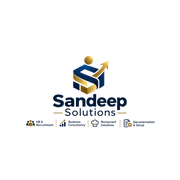
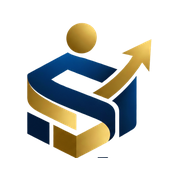
Add files via upload

Changed region(s): [[0.1389, 0.1111, 0.8611, 0.8889], [0.5278, 0.8611, 0.6111, 0.8889]]

diff --git a/services.html b/services.html
@@ -5,6 +5,10 @@
 <meta charset="utf-8">
 <meta name="viewport" content="width=device-width,initial-scale=1">
 <link rel="icon" href="favicon.ico" type="image/x-icon">
+<link rel="icon" type="image/png" sizes="32x32" href="favicon-32.png">
+<link rel="icon" type="image/png" sizes="16x16" href="favicon-16.png">
+<link rel="icon" type="image/png" sizes="192x192" href="favicon-192.png">
+<link rel="manifest" href="site.webmanifest">
 <meta name="theme-color" content="#071b34">
 <meta name="robots" content="index,follow">
 <meta name="author" content="Sandeep Solutions">
@@ -17,9 +21,9 @@
 <meta name="twitter:card" content="summary_large_image">
 <meta name="twitter:title" content="Services | Sandeep Solutions">
 <meta name="twitter:description" content="Recruitment, payroll, statutory compliance, HR consulting, HRMS, analytics, training and employee lifecycle support.">
-<meta name="twitter:image" content="https://sandeephrsolutions.github.io/Logo.png">
+<meta name="twitter:image" content="https://sandeephrsolutions.github.io/header-logo.png">
 <meta property="og:type" content="website">
-<meta property="og:image" content="https://sandeephrsolutions.github.io/Logo.png">
+<meta property="og:image" content="https://sandeephrsolutions.github.io/header-logo.png">
 <title>Services | Sandeep Solutions</title>
 <style>
 :root{--navy:#071b34;--blue:#123f70;--gold:#f4b83f;--gold2:#d89b1d;--ink:#172033;--muted:#687487;--line:#e4e9f0;--bg:#f4f7fb;--soft:#eef4fa;--green:#167642}
@@ -36,7 +40,7 @@ section{padding:68px 0}.white{background:#fff}.page-path{font-size:11px;color:#7
 @media(max-width:1050px){.mobile-menu{display:inline-flex;align-items:center;justify-content:center}.nav{min-height:68px}nav{display:none}nav.open{display:flex;position:absolute;left:16px;right:16px;top:72px;background:#071b34;border:1px solid #ffffff1f;border-radius:14px;padding:8px;flex-direction:column;gap:2px;box-shadow:0 16px 36px #0005}nav.open a{display:block;padding:13px 12px;border-radius:9px}nav.open a:hover{background:#ffffff0c;color:var(--gold)}.hero{padding:58px 0}.hero-grid{grid-template-columns:1fr}.service-grid{grid-template-columns:1fr}.items{grid-template-columns:1fr 1fr}.core{grid-template-columns:1fr}.split{grid-template-columns:1fr}.trust-grid{grid-template-columns:1fr 1fr}}
 @media(max-width:600px){.service-jump{padding:8px 0}.jump-inner{justify-content:flex-start;flex-wrap:nowrap;overflow-x:auto;scrollbar-width:none;padding-bottom:2px}.jump-inner::-webkit-scrollbar{display:none}.jump-inner a{font-size:11px;padding:8px 11px;flex:0 0 auto}.container{padding:0 16px}.brand img{width:46px;height:46px;border-radius:10px}.brand strong{font-size:14px}.brand small{font-size:8px}.hero h1{font-size:37px}.hero p{font-size:16px}.trust-strip{margin-top:0;padding-top:14px}.trust-grid{grid-template-columns:1fr 1fr}.service-card{padding:21px}.items{grid-template-columns:1fr}.service-head h3{font-size:18px}section{padding:54px 0}.heading h2{font-size:30px}.lifecycle{padding:20px}.cta{padding:27px}.cta h3{font-size:24px}.wa{right:12px;bottom:12px;padding:12px 15px;font-size:13px}}
 </style>
-<script type="application/ld+json">{"@context":"https://schema.org","@type":"Organization","name":"Sandeep Solutions","url":"https://sandeephrsolutions.github.io/","logo":"https://sandeephrsolutions.github.io/Logo.png","email":"sandeep.hr.solutions.shr@gmail.com","telephone":"+91-7978259944","sameAs":["https://www.linkedin.com/company/sandeep-hr-solutions/","https://www.instagram.com/sandeep_solutions/","https://www.facebook.com/share/18W9KU7tyC/"]}</script>
+<script type="application/ld+json">{"@context":"https://schema.org","@type":"Organization","name":"Sandeep Solutions","url":"https://sandeephrsolutions.github.io/","logo":"https://sandeephrsolutions.github.io/header-logo.png","email":"sandeep.hr.solutions.shr@gmail.com","telephone":"+91-7978259944","sameAs":["https://www.linkedin.com/company/sandeep-hr-solutions/","https://www.instagram.com/sandeep_solutions/","https://www.facebook.com/share/18W9KU7tyC/"]}</script>
 <script type="application/ld+json">
 {"@context":"https://schema.org","@type":"FAQPage","mainEntity":[
 {"@type":"Question","name":"What services does Sandeep Solutions provide?","acceptedAnswer":{"@type":"Answer","text":"Sandeep Solutions provides HR & Recruitment, Business Consultancy, Restaurant Solutions, and Documentation & Setup services for startups, SMEs and growing businesses."}},
@@ -138,10 +142,7 @@ section{padding:68px 0}.white{background:#fff}.page-path{font-size:11px;color:#7
 <body>
 <header class="site-header">
 <div class="site-container site-nav-wrap">
-<a class="site-brand" href="index.html">
-<img src="brand-mark.png" alt="Sandeep Solutions logo">
-<span><strong>Sandeep Solutions</strong><small>HR &amp; Recruitment • Business Consultancy • Restaurant Solutions • Documentation &amp; Setup</small></span>
-</a>
+<a class="site-brand" href="index.html"><img class="header-logo" src="header-logo.png" alt="Sandeep Solutions"></a>
 <button class="site-mobile-menu" type="button" aria-label="Open navigation menu" aria-controls="siteNav" aria-expanded="false" onclick="toggleMenu()">☰</button>
 <nav id="siteNav" class="site-nav" aria-label="Primary navigation"><a href="index.html">Home</a><a href="about.html">About</a><a href="services.html" class="active" aria-current="page">Services</a><a href="employers.html">Employers</a><a href="jobs.html">Jobs</a><a href="contact.html">Contact</a><a href="admin-login.html">Admin</a></nav>
 </div>

diff --git a/jobs.html b/jobs.html
@@ -4,6 +4,10 @@
 <meta name="google-site-verification" content="6LKeyfC-vAnwwh8r8OQLfQKaJtBmHp_E1QEY5BGM-qA">
 <meta charset="utf-8"><meta name="viewport" content="width=device-width,initial-scale=1">
 <link rel="icon" href="favicon.ico" type="image/x-icon">
+<link rel="icon" type="image/png" sizes="32x32" href="favicon-32.png">
+<link rel="icon" type="image/png" sizes="16x16" href="favicon-16.png">
+<link rel="icon" type="image/png" sizes="192x192" href="favicon-192.png">
+<link rel="manifest" href="site.webmanifest">
 <meta name="theme-color" content="#071b34">
 <meta name="robots" content="index,follow">
 <meta name="author" content="Sandeep Solutions">
@@ -11,11 +15,11 @@
 <meta property="og:title" content="Jobs & Candidate Registration | Sandeep Solutions">
 <meta property="og:description" content="Register your candidate profile with Sandeep Solutions for suitable opportunities across India.">
 <meta property="og:url" content="https://sandeephrsolutions.github.io/jobs.html">
-<meta property="og:image" content="https://sandeephrsolutions.github.io/Logo.png">
+<meta property="og:image" content="https://sandeephrsolutions.github.io/header-logo.png">
 <meta name="twitter:card" content="summary_large_image">
 <meta name="twitter:title" content="Jobs & Candidate Registration | Sandeep Solutions">
 <meta name="twitter:description" content="Register your candidate profile with Sandeep Solutions for suitable opportunities across India.">
-<meta name="twitter:image" content="https://sandeephrsolutions.github.io/Logo.png">
+<meta name="twitter:image" content="https://sandeephrsolutions.github.io/header-logo.png">
 <link rel="canonical" href="https://sandeephrsolutions.github.io/jobs.html">
 <meta name="description" content="Sandeep Solutions provides Pan-India HR & recruitment, business consultancy, restaurant solutions, and documentation & setup support for startups, SMEs and growing businesses.">
 <title>Jobs & Candidate Registration | Sandeep Solutions</title><style>
@@ -135,7 +139,7 @@ nav a{transition:.18s}
   .portal-card .btn{width:100%}
 }
 </style><script type="application/ld+json">
-{"@context":"https://schema.org","@type":"Organization","name":"Sandeep Solutions","url":"https://sandeephrsolutions.github.io/","logo":"https://sandeephrsolutions.github.io/Logo.png","email":"sandeep.hr.solutions.shr@gmail.com","telephone":"+91-7978259944","sameAs":["https://www.linkedin.com/company/sandeep-hr-solutions/","https://www.instagram.com/sandeep_solutions/","https://www.facebook.com/share/18W9KU7tyC/"]}</script><style>
+{"@context":"https://schema.org","@type":"Organization","name":"Sandeep Solutions","url":"https://sandeephrsolutions.github.io/","logo":"https://sandeephrsolutions.github.io/header-logo.png","email":"sandeep.hr.solutions.shr@gmail.com","telephone":"+91-7978259944","sameAs":["https://www.linkedin.com/company/sandeep-hr-solutions/","https://www.instagram.com/sandeep_solutions/","https://www.facebook.com/share/18W9KU7tyC/"]}</script><style>
 
 /* Standard site-wide shell */
 .site-header{position:sticky!important;top:0!important;z-index:1000!important;background:#071b34f5!important;backdrop-filter:blur(12px)!important;color:#fff!important;border-bottom:1px solid #ffffff18!important}
@@ -217,10 +221,7 @@ nav a{transition:.18s}
 <a class="skip-link" href="#main-content">Skip to main content</a>
 <header class="site-header">
 <div class="site-container site-nav-wrap">
-<a class="site-brand" href="index.html">
-<img src="brand-mark.png" alt="Sandeep Solutions logo">
-<span><strong>Sandeep Solutions</strong><small>HR &amp; Recruitment • Business Consultancy • Restaurant Solutions • Documentation &amp; Setup</small></span>
-</a>
+<a class="site-brand" href="index.html"><img class="header-logo" src="header-logo.png" alt="Sandeep Solutions"></a>
 <button class="site-mobile-menu" type="button" aria-label="Open navigation menu" aria-controls="siteNav" aria-expanded="false" onclick="toggleMenu()">☰</button>
 <nav id="siteNav" class="site-nav" aria-label="Primary navigation"><a href="index.html">Home</a><a href="about.html">About</a><a href="services.html">Services</a><a href="employers.html">Employers</a><a href="jobs.html" class="active" aria-current="page">Jobs</a><a href="contact.html">Contact</a><a href="admin-login.html">Admin</a></nav>
 </div>

diff --git a/index.html b/index.html
@@ -5,6 +5,10 @@
 <meta charset="utf-8">
 <meta name="viewport" content="width=device-width,initial-scale=1">
 <link rel="icon" href="favicon.ico" type="image/x-icon">
+<link rel="icon" type="image/png" sizes="32x32" href="favicon-32.png">
+<link rel="icon" type="image/png" sizes="16x16" href="favicon-16.png">
+<link rel="icon" type="image/png" sizes="192x192" href="favicon-192.png">
+<link rel="manifest" href="site.webmanifest">
 <link rel="canonical" href="https://sandeephrsolutions.github.io/">
 <meta name="description" content="Sandeep Solutions provides Pan-India HR &amp; recruitment, business consultancy, restaurant solutions, and documentation &amp; setup support for startups, SMEs and growing businesses.">
 <meta name="theme-color" content="#071b34">
@@ -15,11 +19,11 @@
 <meta property="og:title" content="Sandeep Solutions | HR & Recruitment • Business Consultancy">
 <meta property="og:description" content="HR & Recruitment, Business Consultancy, Restaurant Solutions, and Documentation & Setup for growing businesses across India.">
 <meta property="og:url" content="https://sandeephrsolutions.github.io/">
-<meta property="og:image" content="https://sandeephrsolutions.github.io/Logo.png">
+<meta property="og:image" content="https://sandeephrsolutions.github.io/header-logo.png">
 <meta name="twitter:card" content="summary_large_image">
 <meta name="twitter:title" content="Sandeep Solutions">
 <meta name="twitter:description" content="HR & Recruitment • Business Consultancy • Restaurant Solutions • Documentation & Setup">
-<meta name="twitter:image" content="https://sandeephrsolutions.github.io/Logo.png">
+<meta name="twitter:image" content="https://sandeephrsolutions.github.io/header-logo.png">
 <title>Sandeep Solutions | HR & Recruitment, Business Consultancy & Business Support</title>
 
 
@@ -30,7 +34,7 @@
  "@type":"Organization",
  "name":"Sandeep Solutions",
  "url":"https://sandeephrsolutions.github.io/",
- "logo":"https://sandeephrsolutions.github.io/Logo.png",
+ "logo":"https://sandeephrsolutions.github.io/header-logo.png",
  "email":"sandeep.hr.solutions.shr@gmail.com",
  "telephone":"+91-7978259944",
  "areaServed":{"@type":"Country","name":"India"},
@@ -171,10 +175,7 @@ footer{background:#051225;color:#aebdce;text-align:center;padding:28px 18px;font
 <body>
 <header class="site-header">
 <div class="site-container site-nav-wrap">
-<a class="site-brand" href="index.html">
-<img src="brand-mark.png" alt="Sandeep Solutions logo">
-<span><strong>Sandeep Solutions</strong><small>HR &amp; Recruitment • Business Consultancy • Restaurant Solutions • Documentation &amp; Setup</small></span>
-</a>
+<a class="site-brand" href="index.html"><img class="header-logo" src="header-logo.png" alt="Sandeep Solutions"></a>
 <button class="site-mobile-menu" type="button" aria-label="Open navigation menu" aria-controls="siteNav" aria-expanded="false" onclick="toggleMenu()">☰</button>
 <nav id="siteNav" class="site-nav" aria-label="Primary navigation"><a href="index.html" class="active" aria-current="page">Home</a><a href="about.html">About</a><a href="services.html">Services</a><a href="employers.html">Employers</a><a href="jobs.html">Jobs</a><a href="contact.html">Contact</a><a href="admin-login.html">Admin</a></nav>
 </div>

diff --git a/about.html b/about.html
@@ -4,6 +4,10 @@
 <meta charset="utf-8">
 <meta name="viewport" content="width=device-width,initial-scale=1">
 <link rel="icon" href="favicon.ico" type="image/x-icon">
+<link rel="icon" type="image/png" sizes="32x32" href="favicon-32.png">
+<link rel="icon" type="image/png" sizes="16x16" href="favicon-16.png">
+<link rel="icon" type="image/png" sizes="192x192" href="favicon-192.png">
+<link rel="manifest" href="site.webmanifest">
 <link rel="canonical" href="https://sandeephrsolutions.github.io/about.html">
 <meta name="description" content="Sandeep Solutions provides Pan-India HR & recruitment, business consultancy, restaurant solutions, and documentation & setup support for startups, SMEs and growing businesses.">
 <meta name="theme-color" content="#071b34">
@@ -13,11 +17,11 @@
 <meta property="og:title" content="About | Sandeep Solutions">
 <meta property="og:description" content="Founder-led HR, recruitment, payroll, compliance and consulting support from Sandeep Solutions.">
 <meta property="og:url" content="https://sandeephrsolutions.github.io/about.html">
-<meta property="og:image" content="https://sandeephrsolutions.github.io/brand-mark.png">
+<meta property="og:image" content="https://sandeephrsolutions.github.io/header-logo.png">
 <meta name="twitter:card" content="summary_large_image">
 <meta name="twitter:title" content="About | Sandeep Solutions">
 <meta name="twitter:description" content="Founder-led HR, recruitment, payroll, compliance and consulting support.">
-<meta name="twitter:image" content="https://sandeephrsolutions.github.io/brand-mark.png">
+<meta name="twitter:image" content="https://sandeephrsolutions.github.io/header-logo.png">
 <title>About | Sandeep Solutions</title>
 <style>
 :root{--navy:#071b34;--blue:#123f70;--gold:#f4b83f;--ink:#162235;--muted:#687487;--line:#e4eaf1;--bg:#f5f8fc}
@@ -87,7 +91,7 @@ section{padding:66px 0}.white{background:#fff}.heading{text-align:center;margin-
 <a class="skip-link" href="#main-content">Skip to main content</a>
 <header class="site-header">
 <div class="site-container site-nav-wrap">
-<a class="site-brand" href="index.html"><img src="brand-mark.png" alt="Sandeep Solutions logo"><span><strong>Sandeep Solutions</strong><small>HR &amp; Recruitment • Business Consultancy • Restaurant Solutions • Documentation &amp; Setup</small></span></a>
+<a class="site-brand" href="index.html"><img class="header-logo" src="header-logo.png" alt="Sandeep Solutions"></a>
 <button class="site-mobile-menu" type="button" aria-label="Open navigation menu" aria-controls="siteNav" aria-expanded="false" onclick="toggleMenu()">☰</button>
 <nav id="siteNav" class="site-nav" aria-label="Primary navigation">
 <a href="index.html">Home</a><a href="about.html" class="active" aria-current="page">About</a><a href="services.html">Services</a><a href="employers.html">Employers</a><a href="jobs.html">Jobs</a><a href="contact.html">Contact</a><a href="admin-login.html">Admin</a>

diff --git a/employers.html b/employers.html
@@ -4,6 +4,10 @@
 <meta charset="utf-8">
 <meta name="viewport" content="width=device-width,initial-scale=1">
 <link rel="icon" href="favicon.ico" type="image/x-icon">
+<link rel="icon" type="image/png" sizes="32x32" href="favicon-32.png">
+<link rel="icon" type="image/png" sizes="16x16" href="favicon-16.png">
+<link rel="icon" type="image/png" sizes="192x192" href="favicon-192.png">
+<link rel="manifest" href="site.webmanifest">
 <link rel="canonical" href="https://sandeephrsolutions.github.io/employers.html">
 <meta name="description" content="Sandeep Solutions provides Pan-India HR & recruitment, business consultancy, restaurant solutions, and documentation & setup support for startups, SMEs and growing businesses.">
 <meta name="robots" content="index,follow">
@@ -13,11 +17,11 @@
 <meta property="og:title" content="Employer Solutions | Sandeep Solutions">
 <meta property="og:description" content="Recruitment, payroll, compliance and HR consulting support for businesses across India.">
 <meta property="og:url" content="https://sandeephrsolutions.github.io/employers.html">
-<meta property="og:image" content="https://sandeephrsolutions.github.io/brand-mark.png">
+<meta property="og:image" content="https://sandeephrsolutions.github.io/header-logo.png">
 <meta name="twitter:card" content="summary_large_image">
 <meta name="twitter:title" content="Employer Solutions | Sandeep Solutions">
 <meta name="twitter:description" content="Recruitment, payroll, compliance and HR consulting support for businesses across India.">
-<meta name="twitter:image" content="https://sandeephrsolutions.github.io/brand-mark.png">
+<meta name="twitter:image" content="https://sandeephrsolutions.github.io/header-logo.png">
 <title>Employer Solutions | Sandeep Solutions</title>
 <style>
 :root{--navy:#071b34;--blue:#123f70;--gold:#f4b83f;--ink:#172033;--muted:#697588;--line:#e4eaf1;--bg:#f5f8fc}
@@ -79,7 +83,7 @@ form{padding:25px 26px}.form-section{margin-bottom:25px}.section-title{display:f
 <body>
 <a href="#main-content" class="skip-link">Skip to main content</a>
 <header><div class="container nav">
-<a class="brand" href="index.html"><img src="brand-mark.png" alt="Sandeep Solutions logo"><span><strong>Sandeep Solutions</strong><small>HR &amp; Recruitment • Business Consultancy • Restaurant Solutions • Documentation &amp; Setup</small></span></a>
+<a class="brand" href="index.html"><img class="header-logo" src="header-logo.png" alt="Sandeep Solutions"></a>
 <button class="mobile-menu" type="button" aria-label="Open navigation" aria-controls="siteNav" aria-expanded="false">☰</button>
 <nav id="siteNav"><a href="index.html">Home</a><a href="about.html">About</a><a href="services.html">Services</a><a href="employers.html">Employers</a><a href="jobs.html">Jobs</a><a href="contact.html">Contact</a><a href="admin-login.html">Admin</a></nav>
 </div></header>

diff --git a/contact.html b/contact.html
@@ -3,13 +3,17 @@
 <head>
 <meta charset="utf-8"><meta name="viewport" content="width=device-width,initial-scale=1">
 <link rel="icon" href="favicon.ico" type="image/x-icon">
+<link rel="icon" type="image/png" sizes="32x32" href="favicon-32.png">
+<link rel="icon" type="image/png" sizes="16x16" href="favicon-16.png">
+<link rel="icon" type="image/png" sizes="192x192" href="favicon-192.png">
+<link rel="manifest" href="site.webmanifest">
 <link rel="canonical" href="https://sandeephrsolutions.github.io/contact.html">
 <meta name="description" content="Sandeep Solutions provides Pan-India HR & recruitment, business consultancy, restaurant solutions, and documentation & setup support for startups, SMEs and growing businesses.">
 <meta name="robots" content="index,follow">
 <meta name="author" content="Sandeep Solutions">
 <meta property="og:type" content="website"><meta property="og:title" content="Contact | Sandeep Solutions">
 <meta property="og:description" content="Connect with Sandeep Solutions for HR, recruitment and business solutions support across India.">
-<meta property="og:url" content="https://sandeephrsolutions.github.io/contact.html"><meta property="og:image" content="https://sandeephrsolutions.github.io/brand-mark.png">
+<meta property="og:url" content="https://sandeephrsolutions.github.io/contact.html"><meta property="og:image" content="https://sandeephrsolutions.github.io/header-logo.png">
 <meta name="twitter:card" content="summary_large_image"><meta name="twitter:title" content="Contact | Sandeep Solutions"><meta name="twitter:description" content="Pan-India HR and recruitment support.">
 <title>Contact | Sandeep Solutions</title>
 <style>
@@ -87,7 +91,7 @@ section{padding:72px 0}.white{background:#fff}.heading{text-align:center;margin-
 
 <a class="skip-link" href="#main-content">Skip to main content</a>
 <header class="site-header"><div class="container site-nav-wrap">
-<a class="site-brand" href="index.html"><img src="brand-mark.png" alt="Sandeep Solutions logo"><span><strong>Sandeep Solutions</strong><small>HR &amp; Recruitment • Business Consultancy • Restaurant Solutions • Documentation &amp; Setup</small></span></a>
+<a class="site-brand" href="index.html"><img class="header-logo" src="header-logo.png" alt="Sandeep Solutions"></a>
 <button class="site-mobile-menu" type="button" aria-label="Open navigation menu" aria-controls="siteNav" aria-expanded="false" onclick="toggleMenu()">☰</button>
 <nav id="siteNav" class="site-nav" aria-label="Primary navigation"><a href="index.html">Home</a><a href="about.html">About</a><a href="services.html">Services</a><a href="employers.html">Employers</a><a href="jobs.html">Jobs</a><a href="contact.html" class="active" aria-current="page">Contact</a><a href="admin-login.html">Admin</a></nav>
 </div></header>

diff --git a/privacy.html b/privacy.html
@@ -10,14 +10,18 @@
 <meta property="og:title" content="Privacy Policy | Sandeep Solutions">
 <meta property="og:description" content="Privacy Policy of Sandeep Solutions covering candidate, employer and website information.">
 <meta property="og:url" content="https://sandeephrsolutions.github.io/privacy.html">
-<meta property="og:image" content="https://sandeephrsolutions.github.io/Logo.png">
+<meta property="og:image" content="https://sandeephrsolutions.github.io/header-logo.png">
 <meta name="twitter:card" content="summary_large_image">
 <meta name="twitter:title" content="Privacy Policy | Sandeep Solutions">
 <meta name="twitter:description" content="Privacy Policy of Sandeep Solutions covering candidate, employer and website information.">
-<meta name="twitter:image" content="https://sandeephrsolutions.github.io/Logo.png">
+<meta name="twitter:image" content="https://sandeephrsolutions.github.io/header-logo.png">
 <title>Privacy Policy | Sandeep Solutions</title>
 <meta name="description" content="Sandeep Solutions provides Pan-India HR & recruitment, business consultancy, restaurant solutions, and documentation & setup support for startups, SMEs and growing businesses.">
 <link rel="icon" href="favicon.ico" type="image/x-icon">
+<link rel="icon" type="image/png" sizes="32x32" href="favicon-32.png">
+<link rel="icon" type="image/png" sizes="16x16" href="favicon-16.png">
+<link rel="icon" type="image/png" sizes="192x192" href="favicon-192.png">
+<link rel="manifest" href="site.webmanifest">
 <style>
 :root{--navy:#071b34;--blue:#123f70;--gold:#f4b83f;--ink:#172033;--muted:#687487;--line:#e4eaf1;--bg:#f5f8fc}
 *{box-sizing:border-box}body{margin:0;font-family:Arial,Helvetica,sans-serif;line-height:1.7;background:var(--bg);color:var(--ink)}
@@ -74,7 +78,7 @@ footer{background:#06172c;color:#aebed0;padding:28px 20px;text-align:center;font
 <a class="skip-link" href="#main-content">Skip to main content</a>
 <header>
 <div class="nav" id="nav">
-<a class="brand" href="index.html"><img src="brand-mark.png" alt="Sandeep Solutions logo"><span><strong>Sandeep Solutions</strong><small>HR &amp; Recruitment • Business Consultancy • Restaurant Solutions • Documentation &amp; Setup</small></span></a>
+<a class="brand" href="index.html"><img class="header-logo" src="header-logo.png" alt="Sandeep Solutions"></a>
 <button class="mobile" onclick="toggleNav()" aria-label="Open navigation">☰</button>
 <nav>
 <a href="index.html">Home</a><a href="about.html">About</a><a href="services.html">Services</a><a href="employers.html">Employers</a><a href="jobs.html">Jobs</a><a href="contact.html">Contact</a><a href="admin-login.html">Admin</a>

diff --git a/terms.html b/terms.html
@@ -4,6 +4,10 @@
 <meta charset="utf-8">
 <meta name="viewport" content="width=device-width,initial-scale=1">
 <link rel="icon" href="favicon.ico" type="image/x-icon">
+<link rel="icon" type="image/png" sizes="32x32" href="favicon-32.png">
+<link rel="icon" type="image/png" sizes="16x16" href="favicon-16.png">
+<link rel="icon" type="image/png" sizes="192x192" href="favicon-192.png">
+<link rel="manifest" href="site.webmanifest">
 <link rel="canonical" href="https://sandeephrsolutions.github.io/terms.html">
 <meta name="description" content="Sandeep Solutions provides Pan-India HR & recruitment, business consultancy, restaurant solutions, and documentation & setup support for startups, SMEs and growing businesses.">
 <meta name="robots" content="index,follow">
@@ -12,7 +16,7 @@
 <meta property="og:title" content="Terms & Conditions | Sandeep Solutions">
 <meta property="og:description" content="Terms & Conditions for using Sandeep Solutions website and services.">
 <meta property="og:url" content="https://sandeephrsolutions.github.io/terms.html">
-<meta property="og:image" content="https://sandeephrsolutions.github.io/Logo.png">
+<meta property="og:image" content="https://sandeephrsolutions.github.io/header-logo.png">
 <meta name="twitter:card" content="summary_large_image">
 <meta name="twitter:title" content="Terms & Conditions | Sandeep Solutions">
 <meta name="twitter:description" content="Terms & Conditions for using Sandeep Solutions website and services.">
@@ -76,7 +80,7 @@ main{padding:58px 0}.legal-wrap{max-width:900px;margin:auto}.legal-card{backgrou
 <body>
 <header class="site-header">
 <div class="site-container site-nav-wrap">
-<a class="site-brand" href="index.html"><img src="brand-mark.png" alt="Sandeep Solutions logo"><span><strong>Sandeep Solutions</strong><small>HR &amp; Recruitment • Business Consultancy • Restaurant Solutions • Documentation &amp; Setup</small></span></a>
+<a class="site-brand" href="index.html"><img class="header-logo" src="header-logo.png" alt="Sandeep Solutions"></a>
 <button class="site-mobile-menu" type="button" aria-label="Open navigation menu" aria-controls="siteNav" aria-expanded="false" onclick="toggleMenu()">☰</button>
 <nav id="siteNav" class="site-nav" aria-label="Primary navigation">
 <a href="index.html">Home</a><a href="about.html">About</a><a href="services.html">Services</a><a href="employers.html">Employers</a><a href="jobs.html">Jobs</a><a href="contact.html">Contact</a><a href="admin-login.html">Admin</a>

diff --git a/disclaimer.html b/disclaimer.html
@@ -4,6 +4,10 @@
 <meta charset="utf-8">
 <meta name="viewport" content="width=device-width,initial-scale=1">
 <link rel="icon" href="favicon.ico" type="image/x-icon">
+<link rel="icon" type="image/png" sizes="32x32" href="favicon-32.png">
+<link rel="icon" type="image/png" sizes="16x16" href="favicon-16.png">
+<link rel="icon" type="image/png" sizes="192x192" href="favicon-192.png">
+<link rel="manifest" href="site.webmanifest">
 <link rel="canonical" href="https://sandeephrsolutions.github.io/disclaimer.html">
 <meta name="robots" content="index,follow">
 <meta name="author" content="Sandeep Solutions">
@@ -66,7 +70,7 @@ footer{text-align:center;margin-top:35px;color:#666;font-size:12px}
 </head>
 <body>
 <a class="skip-link" href="#main-content">Skip to main content</a>
-<header class="site-header"><div class="site-container site-nav-wrap"><a class="site-brand" href="index.html"><img src="brand-mark.png" alt="Sandeep Solutions logo"><span><strong>Sandeep Solutions</strong><small>HR &amp; Recruitment • Business Consultancy • Restaurant Solutions • Documentation &amp; Setup</small></span></a>
+<header class="site-header"><div class="site-container site-nav-wrap"><a class="site-brand" href="index.html"><img class="header-logo" src="header-logo.png" alt="Sandeep Solutions"></a>
 <button class="site-mobile-menu" type="button" aria-label="Open navigation menu" aria-controls="siteNav" aria-expanded="false" onclick="toggleMenu()">☰</button>
 <nav id="siteNav" class="site-nav" aria-label="Primary navigation">
 <a href="index.html">Home</a><a href="about.html">About</a><a href="services.html">Services</a><a href="employers.html">Employers</a><a href="jobs.html">Jobs</a><a href="contact.html">Contact</a><a href="admin-login.html">Admin</a>

diff --git a/brand_v3.css b/brand_v3.css
@@ -157,3 +157,18 @@ main{background:var(--ss-grey)!important}
 .site-mobile-menu{min-width:44px!important;min-height:44px!important}
 @media(max-width:420px){.site-brand small{font-size:6px!important;max-width:175px!important}.hero h1,.hero h2{font-size:31px!important}.site-nav{font-size:15px!important}.site-nav a{padding:11px 12px!important}}
 @media(prefers-reduced-motion:reduce){*,*::before,*::after{scroll-behavior:auto!important;transition:none!important;animation:none!important;transform:none!important}}
+
+/* Final logo + favicon consistency */
+.site-brand,.brand{display:flex!important;align-items:center!important;gap:0!important}
+.site-brand .header-logo,.brand .header-logo{
+  display:block!important;width:auto!important;height:58px!important;max-width:250px!important;
+  object-fit:contain!important;background:transparent!important;border:0!important;
+  border-radius:0!important;padding:0!important;
+}
+.site-brand>span,.brand>span{display:none!important}
+@media(max-width:650px){
+  .site-brand .header-logo,.brand .header-logo{height:48px!important;max-width:205px!important}
+}
+@media(max-width:420px){
+  .site-brand .header-logo,.brand .header-logo{height:43px!important;max-width:180px!important}
+}
